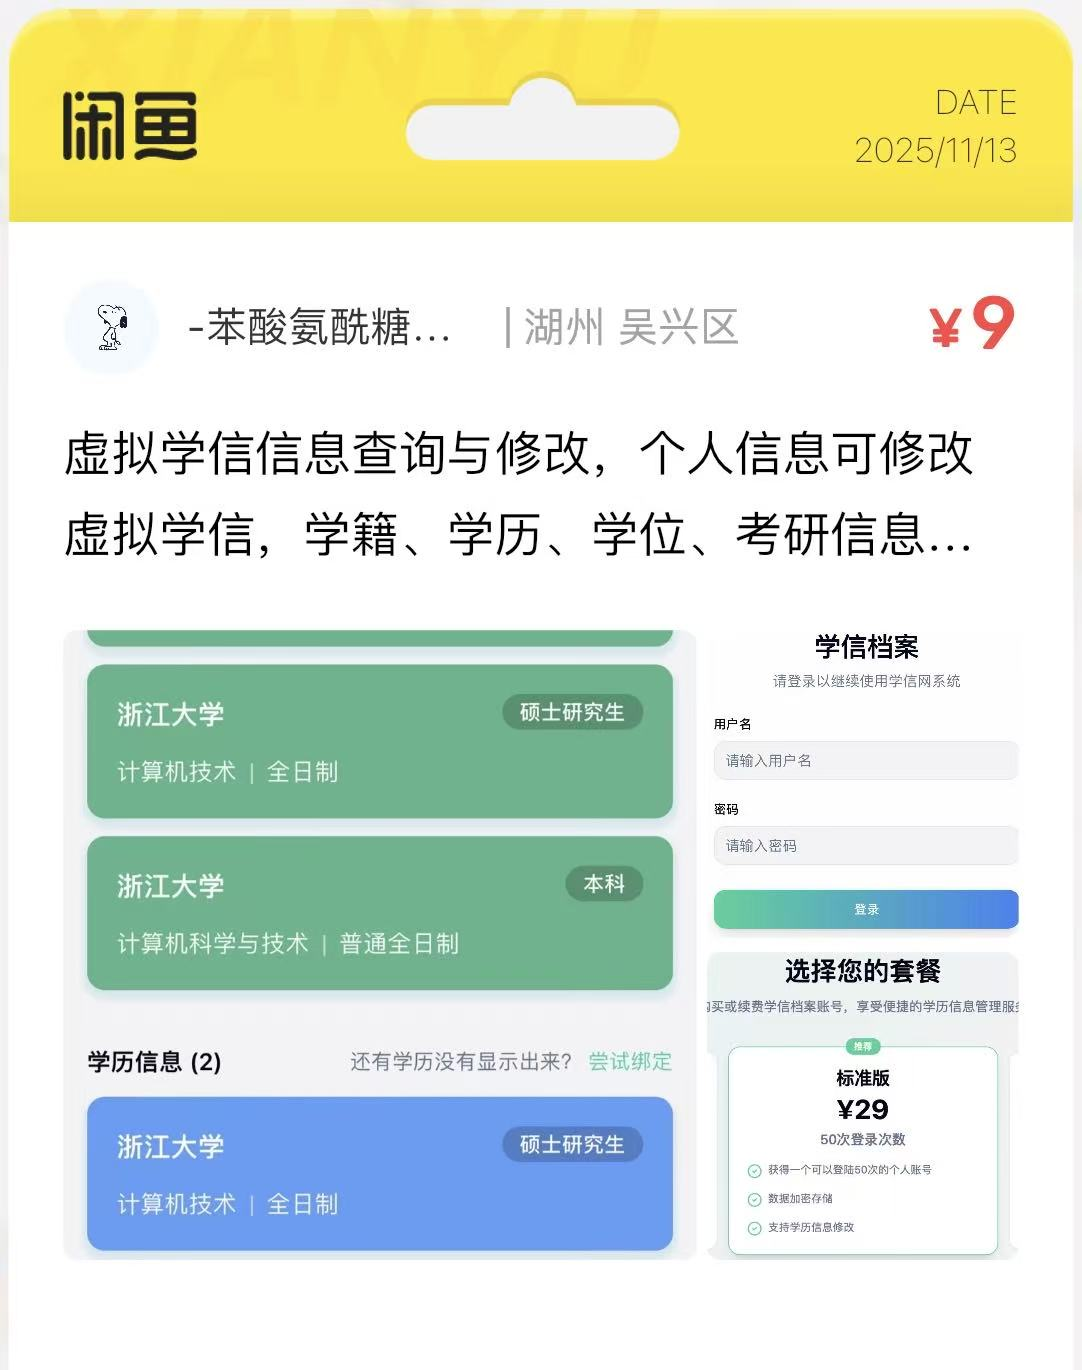
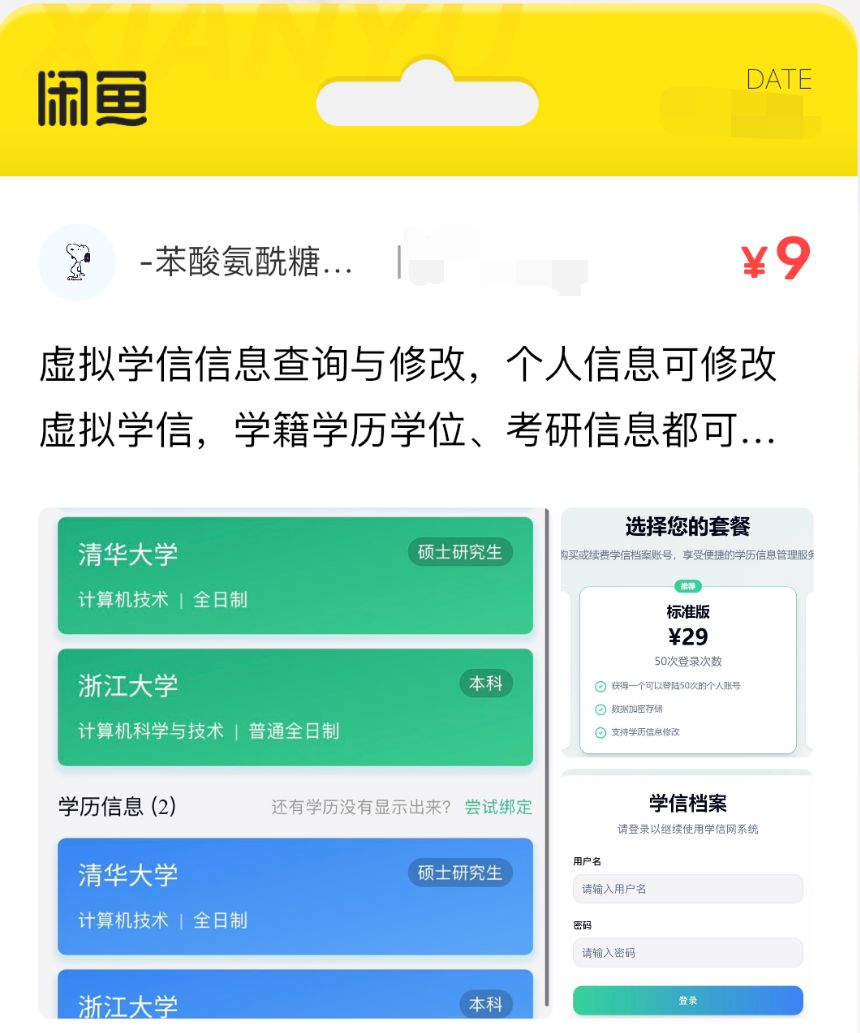
update

diff --git a/src/pages/Purchase.tsx b/src/pages/Purchase.tsx
@@ -44,7 +44,7 @@ const Purchase = () => {
   ];
 
   const handlePurchase = () => {
-    window.open("https://m.tb.cn/h.Sn7Xrtk?tk=jTiAffAGIsg", "_blank");
+    window.open("https://m.tb.cn/h.SBeNzg7?tk=soe4fLh0W4i", "_blank");
   };
 
   return (
